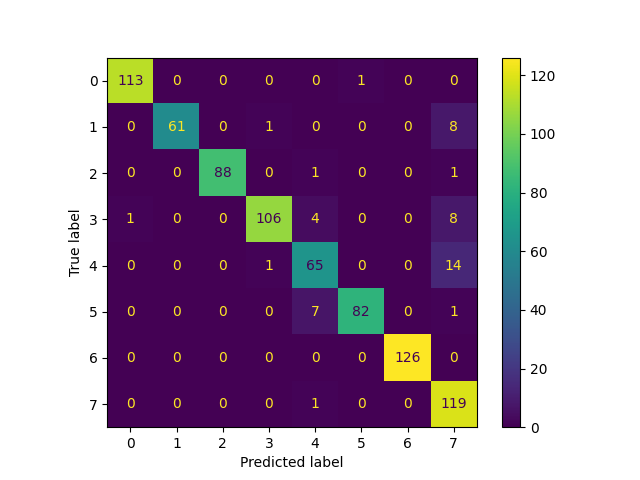
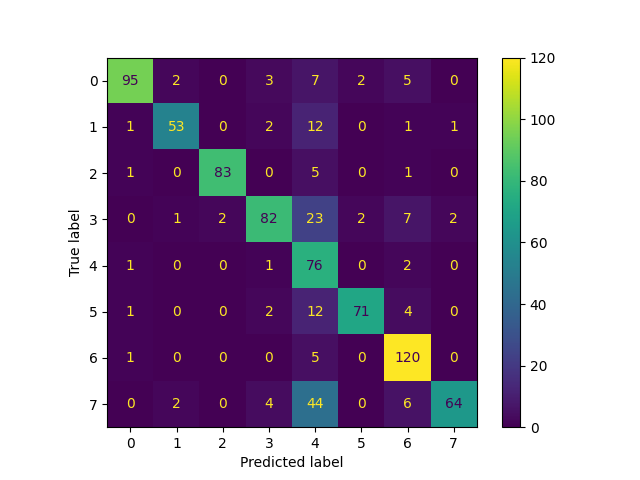
Finished

diff --git a/model_ResNet50.py b/model_ResNet50.py
@@ -4,17 +4,32 @@ import numpy as np
 import tensorflow as tf
 from displayReport import display_report
 
-def create_model(classes = 8):
+def create_model(isPretrained, classes = 8):
     
-    model = tf.keras.applications.resnet50.ResNet50(
-        include_top=True,
-        weights=None,
-        input_tensor=None,
-        input_shape=None,
-        pooling=None,
-        classes=classes,
-        classifier_activation="softmax",
-    )
+    if isPretrained:
+        model = models.Sequential()
+
+        model.add(tf.keras.applications.resnet50.ResNet50(include_top=False, pooling='avg', weights="imagenet"))
+        model.add(layers.Flatten())
+        model.add(layers.BatchNormalization())
+        model.add(layers.Dense(2048, activation='relu'))
+        model.add(layers.BatchNormalization())
+        model.add(layers.Dense(1024, activation='relu'))
+        model.add(layers.BatchNormalization())
+        model.add(layers.Dense(classes, activation='softmax'))
+
+        model.layers[0].trainable = False
+        
+    else:
+        model = tf.keras.applications.resnet50.ResNet50(
+            include_top=True,
+            weights=None,
+            input_tensor=None,
+            input_shape=None,
+            pooling=None,
+            classes=classes,
+            classifier_activation="softmax",
+        )
 
     model.compile(optimizer='adam',
                 loss=tf.keras.losses.SparseCategoricalCrossentropy(from_logits=True),
@@ -22,9 +37,9 @@ def create_model(classes = 8):
     
     return model
 
-def save_and_train_model(model_path, log_dir_base, train_dataset, validation_dataset, test_dataset):
+def save_and_train_model(model_path, log_dir_base, train_dataset, validation_dataset, test_dataset, isPretrained = False):
     
-    model = create_model()
+    model = create_model(isPretrained)
     
     log_dir = log_dir_base + datetime.datetime.now().strftime("%Y%m%d-%H%M%S")
 

diff --git a/model_VGG16.py b/model_VGG16.py
@@ -3,17 +3,32 @@ import tensorflow as tf
 
 from displayReport import display_report
 
-def create_model(classes = 8):
+def create_model(isPretrained, classes = 8):
     
-    model = tf.keras.applications.vgg16.VGG16(
-        include_top=True,
-        weights=None,
-        input_tensor=None,
-        input_shape=None,
-        pooling=None,
-        classes=classes,
-        classifier_activation="softmax",
-    )
+    if isPretrained:
+        model = models.Sequential()
+
+        model.add(tf.keras.applications.vgg16.VGG16(include_top=False, pooling='avg', weights="imagenet"))
+        model.add(layers.Flatten())
+        model.add(layers.BatchNormalization())
+        model.add(layers.Dense(2048, activation='relu'))
+        model.add(layers.BatchNormalization())
+        model.add(layers.Dense(1024, activation='relu'))
+        model.add(layers.BatchNormalization())
+        model.add(layers.Dense(classes, activation='softmax'))
+
+        model.layers[0].trainable = False
+        
+    else:
+        model = tf.keras.applications.vgg16.VGG16(
+            include_top=True,
+            weights=None,
+            input_tensor=None,
+            input_shape=None,
+            pooling=None,
+            classes=classes,
+            classifier_activation="softmax",
+        )
 
     model.compile(optimizer='adam',
                 loss=tf.keras.losses.SparseCategoricalCrossentropy(from_logits=True),
@@ -21,9 +36,9 @@ def create_model(classes = 8):
     
     return model
 
-def save_and_train_model(model_path, log_dir_base, train_dataset, validation_dataset, test_dataset):
+def save_and_train_model(model_path, log_dir_base, train_dataset, validation_dataset, test_dataset, isPretrained = False):
     
-    model = create_model()
+    model = create_model(isPretrained)
     
     log_dir = log_dir_base + datetime.datetime.now().strftime("%Y%m%d-%H%M%S")
 

diff --git a/main.py b/main.py
@@ -8,9 +8,10 @@ from tensorflow.python.client import device_lib
 from dataPreprocessing import handle_dataset
 from testImageRandom import handle_image_gave
 
-from model_CNN import save_and_train_model   
+'''Choix de model import'''
+# from model_CNN import save_and_train_model   
 # from model_MLP import save_and_train_model
-# from model_ResNet50 import save_and_train_model
+from model_ResNet50 import save_and_train_model
 # from model_VGG16 import save_and_train_model
  
 print("lol")
@@ -22,9 +23,10 @@ seed = 42
 
 log_dir_base = "logs_train_model/"
 
-model_path = "saved_models/model_CNN"
+'''Choix de model'''
+# model_path = "saved_models/model_CNN"
 # model_path = "saved_models/model_MLP"
-# model_path = "saved_models/model_Resnet50"
+model_path = "saved_models/model_Resnet50"
 # model_path = "saved_models/model_VGG16"
 
 image_to_predict = "./test_images_random/FU-ringworm-1.jpeg"
@@ -35,7 +37,11 @@ def train():
     validation_dataset = handle_dataset(dataset_path + 'validation_set/', BATCH_SIZE, seed)
     test_dataset = handle_dataset(dataset_path + 'test_set/', BATCH_SIZE, seed)
     
+    '''
+    Donner une variable booléen d'entrée = True de plus pour le model ResNet50 et VGG16 si on prend un model pré-entrainné
+    '''
     save_and_train_model(model_path, log_dir_base, train_dataset, validation_dataset, test_dataset)
+    # save_and_train_model(model_path, log_dir_base, train_dataset, validation_dataset, test_dataset, True)
     
 def predict():
     
